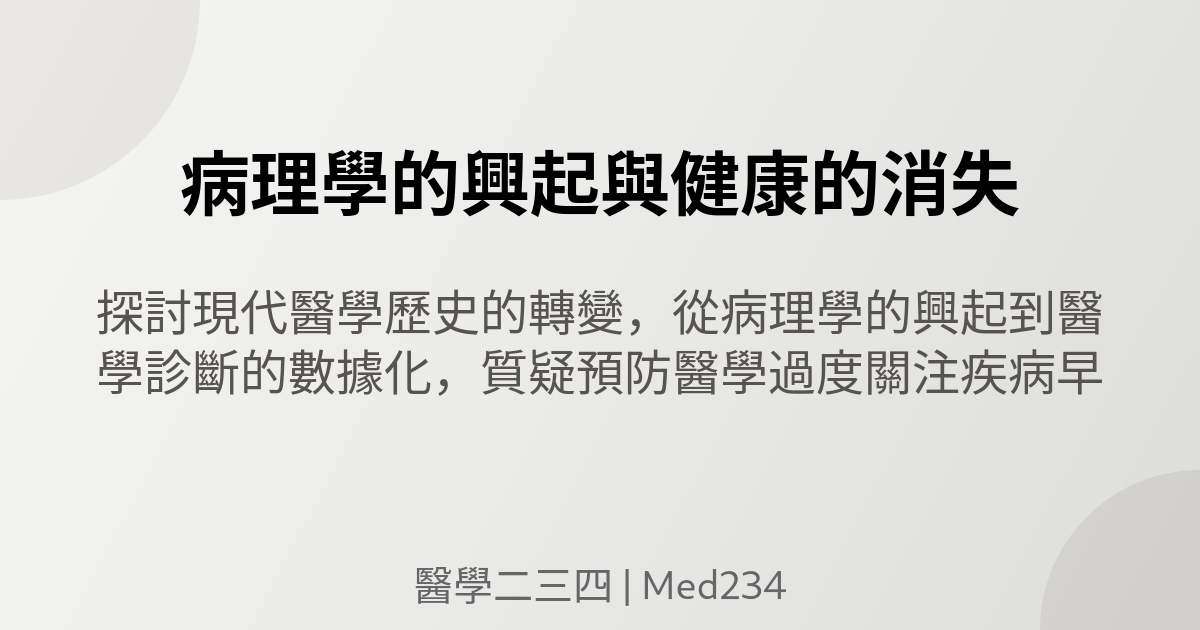
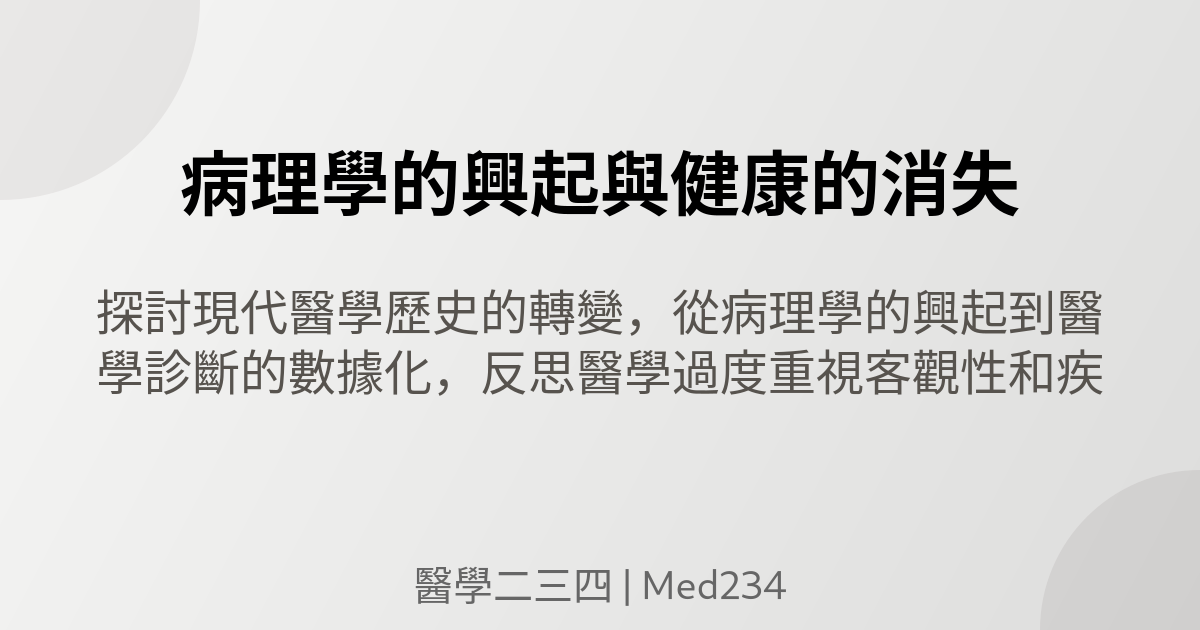
Update article and add an image

Changed region(s): [[0.4008, 0.5429, 0.925, 0.6333]]

diff --git a/_posts/zh/2024-12-09-01.md b/_posts/zh/2024-12-09-01.md
@@ -1,7 +1,7 @@
 ---
 index: 7
 title: "病理學的興起與健康的消失"
-description: "探討現代醫學歷史的轉變，從病理學的興起到醫學診斷的數據化，質疑預防醫學過度關注疾病早期發現，忽視健康的真正定義。"
+description: "探討現代醫學歷史的轉變，從病理學的興起到醫學診斷的數據化，反思醫學過度重視客觀性和疾病，忽視健康的真正定義。"
 date: 2024-12-09
 keywords:
   - 現代醫學歷史
@@ -27,21 +27,33 @@ categories:
 
 我不知道該怎麼定義現代醫學的歷史，許多的醫學史的著作，都會上推到古希臘時期，但基本上我覺得現代醫學和古代的歐洲的醫學，並沒有大家想像的那麼有連貫性和一致性，感覺現代醫學更像是在 18 世紀到 19 世紀才横空出世。幾個我認為的重要關鍵點。一是麻醉藥物的出現使得手術成為重要的醫療手段，另一個是抗生素的發明。然而，卻有一種少有人提起的轉變，徹底的改變了醫學。
 
-早期的醫學診斷，主要是以病人的主觀論述為主，醫生再由自己所學的理論、經驗和直覺，給予病人生活上的建議或草藥，然而，在 19 世紀初，這種核心的態度卻慢慢的發生了轉變。
+早期的醫學診斷，主要是以病人的主觀論述為主，醫生再由自己所學的理論、經驗和直覺，給予病人生活上的建議或草藥，然而，在 19 世紀初，這種核心的態度卻慢慢的發生了改變。
 
-1801 年法國醫生夏維耶·比沙[^1] 發表了《一般病理學》（Pathologie Générale），他將疾病視為具體的組織病變，這是一個時代的標記，從這時開始，疾病的定義不在是病人體內主觀的不平衡，而是一種客觀的病理現象。這使得醫學漸漸的將疾病當成一種客觀的存在，並慢慢的把研究的重點轉移到疾病身上，健康不再是醫學主要的論述，身為「他者」的疾病才是研究的重點。這不僅僅是醫學客觀化的過渡，也是健康到病理敘事的轉變。
+1801 年法國醫生夏維耶·比沙 [^1] 發表了《一般病理學》（Pathologie Générale），他將疾病視為具體的組織病變，這是一個時代的標記，從這時開始，疾病的定義不在是病人體內主觀的不平衡，而是一種客觀的病理現象。這使得醫學漸漸的將疾病當成一種客觀的存在，並慢慢的把研究的重點轉移到疾病身上，健康不再是醫學主要的論述，身為「他者」的疾病才是研究的重點。這不僅僅是醫學客觀化的過渡，也是健康到以疾病為主的敘事轉變。
 
 1816 年由雷內·拉埃內克 [^2] 發明的聽診器也起到推波助瀾的作用。聽診器讓醫生可以直接「聽到」身體內部的異常，減少對病人主觀描述的依賴。
 
-在文藝復興時期，歐洲就已經流傳了許多精細的解剖圖，1543 年安德烈亞斯·維薩里 [^3] 的《人體結構》（De Humani Corporis Fabrica）可以稱得上其中的典範，但這些結剖圖，更像是政治和藝術的展示，企圖去顯示上帝設計的美，並對天主教教會做出挑戰。但從早期醫學的角度來說，卻沒有多少實質的意義，甚至會有醫生對解剖提出不屑的質疑。蓋侖 [^4] 就曾經公開抱怨，「顯然過於強調解剖學當中不具有醫學價值或醫學價值低落那一部分…其重要性遠不及了解肌肉分布的情形。」[^5] 然而，病理學的發展，卻為解剖學帶來完全不同的意義，看得到的組識損害和解剖學的結合，才徹底的翻轉了解剖學在醫學中的地位。
+在文藝復興時期，歐洲就已經流傳了許多精細的解剖圖，1543 年安德烈亞斯·維薩留斯 [^3] 的《人體結構》（De Humani Corporis Fabrica）可以稱得上其中的典範，但這些結剖圖，更像是政治和藝術的展示，企圖去顯示上帝設計的美，並對天主教教會做出挑戰。但從早期醫學的角度來說，卻沒有多少實質的意義，甚至會有醫生對解剖提出不屑的質疑。蓋侖 [^4] 就曾經公開抱怨，「顯然過於強調解剖學當中不具有醫學價值或醫學價值低落那一部分…其重要性遠不及了解肌肉分布的情形。」[^5] 然而，病理學的發展，卻為解剖學帶來完全不同的意義，看得到的組識損害和解剖學的結合，才徹底的翻轉了解剖學在醫學中的地位。
 
-即使如此，因為診斷的工具有限，許多十九世紀的醫生仍然十分重視患者主觀的論述與生活情況，醫生甚至會詳細的紀錄而病人的生活史與病史，甚至在許多地方的圖書館，都還能找到許多的資料。然後，隨著醫學不斷的發展，各種新型的診斷工具不斷的被發明出來，病人的主觀論述就愈來愈加的不重要，甚至連醫生主觀的診斷也一樣愈來愈不重要。
 
-我記得小時候感冒看醫生時，醫生會用一根棒子控制我的舌頭，好讓他仔細的觀察我的口腔，用聽診器全神貫注的聆聽我身體內部的聲音，例如心跳、呼吸聲以及腸胃道的聲音；他的手像神奇的探針一樣，在我身上摸索著，一會兒敲這裡，一會兒按那裡，他甚至會觀察我的眼睛，聞我身上的味道。但如今，醫生卻是眼睛一直盯著電腦，簡單的問了一些問題後，就直接開立各種 X 光和生化的檢查，短短的三十年，醫學在診療上的改變，是肉眼可及。醫生正不斷的朝著數據化的方向前進，如果這個趨勢不變，人工智能取代醫生的那天，應該很快就會實現。
+{% include img.html 
+   src="/assets/img/Vesalius_Allegorical_Anatomy.jpg"
+   alt="16 世紀象徵性姿勢的人體解剖插圖。"
+   title="維薩里的象徵性解剖插圖，描繪一個解剖後的身體呈現象徵性姿勢。"
+   idx=1
+
+%}
+
+
+
+即使如此，因為診斷的工具有限，許多十九世紀的醫生仍然十分重視患者主觀的論述與生活情況，醫生甚至會詳細的紀錄而病人的生活史與病史，在歐美許多地方的圖書館，都還能找到許多的資料。然後，隨著醫學不斷的發展，各種新型的診斷工具不斷的被發明出來，病人的主觀論述就愈來愈加的不重要，甚至連醫生主觀的診斷也一樣愈來愈不重要。
+
+我記得小時候感冒看醫生時，醫生會用一根棒子控制我的舌頭，好讓他仔細的觀察我的口腔，用聽診器全神貫注的聆聽我身體內部的聲音，例如心跳、呼吸聲以及腸胃道的聲音；他的手像神奇的探針一樣，在我身上摸索著，一會兒敲這裡，一會兒按那裡，他甚至會觀察我的眼睛，聞我身上的味道。但如今，醫生卻是眼睛一直盯著電腦，簡單的問了一些問題後，就直接開立各種 X 光和生化的檢查，短短的三十年，醫學在診療上的改變，是肉眼可及的，醫學正不斷的朝著數據化的方向前進，如果這個趨勢不變，人工智能取代醫生的那天，應該很快就會實現。
 
 也許有許多人都能感受到這種診療客觀化的過程，最讓我不解的是，從來沒有人仔細的思考醫學敘事的改變，也就是對於健康的論述，在現代醫學的語境下，健康是在去除了疾病之後才會存在的狀態，我們對身體的認識，也愈來愈從疾病的角度出發，我在念小學、中學的時候，班上有五十個人，只有很少數的人會被貼上智能障礙的標籤，然而我問了我一個在私校國小教書的朋友，他說他們班上，有自閉症、過動症、亞斯伯格…等病症的同學已經接近 1/3，這個數字讓我十分的驚訝。今天晚上我回家的時候，又看到了里長貼上流感疫苗注射的宣傳單，醫學不斷的要我們盡可能的多做健康檢查，早期發現，早期治療的觀念到處流傳，預防醫學已經被定義為：愈早發現疾病愈好。
 
 老實說，我很不認同這樣子的觀念，健康好像消失了，預防的定義居然是及早發現疾病，好像醫學對於健康一無所知，然而，這也確實是如此，如果沒有常識提醒我們要多運動、規律作息，吃營養食物，我們或許無法真正理解健康是什麼，然而，甚至這些常識背後的信念也不是基於健康，而是基於不要生病。那麼，健康是什麼？有人能解答我的疑問嗎？
+
 
 ## 引用與附註
 
@@ -49,8 +61,9 @@ categories:
 
 [^2]: 雷內·拉埃內克（René Laennec）：1781 年－1826 年，法國醫生，發明了聽診器，使醫生能夠通過聽診更精確地診斷病情，減少對病人主觀描述的依賴。
 
-[^3]: 安德烈亞斯·維薩里（Andreas Vesalius）：1514 年－1564 年，比利時解剖學家，透過《人體結構》改變了解剖學的視野，挑戰傳統醫學觀念，為現代解剖學鋪路。
+[^3]: 安德烈亞斯·維薩留斯（Andreas Vesalius）：1514 年－1564 年，比利時解剖學家，透過《人體結構》挑戰了當時解剖學的視野。當時許多解剖學家解剖的原因，是要在人的體內，找到神懲罰人的罪。從現在的角度來思考，反而不太棈楚他們在找的究竟是什麼東西。
 
 [^4]: 蓋侖（Galen）：129 年－200 年（或約 216 年），古羅馬醫學家，對解剖學有所貢獻，但對當時過度強調的解剖細節提出質疑，強調臨床經驗和理論的重要性。
 
 [^5]: 栗山茂久（2001）。《身體的語言——從中西文化看身體之謎》（陳信宏譯）。台北市：未來出版社，頁 131。
+
